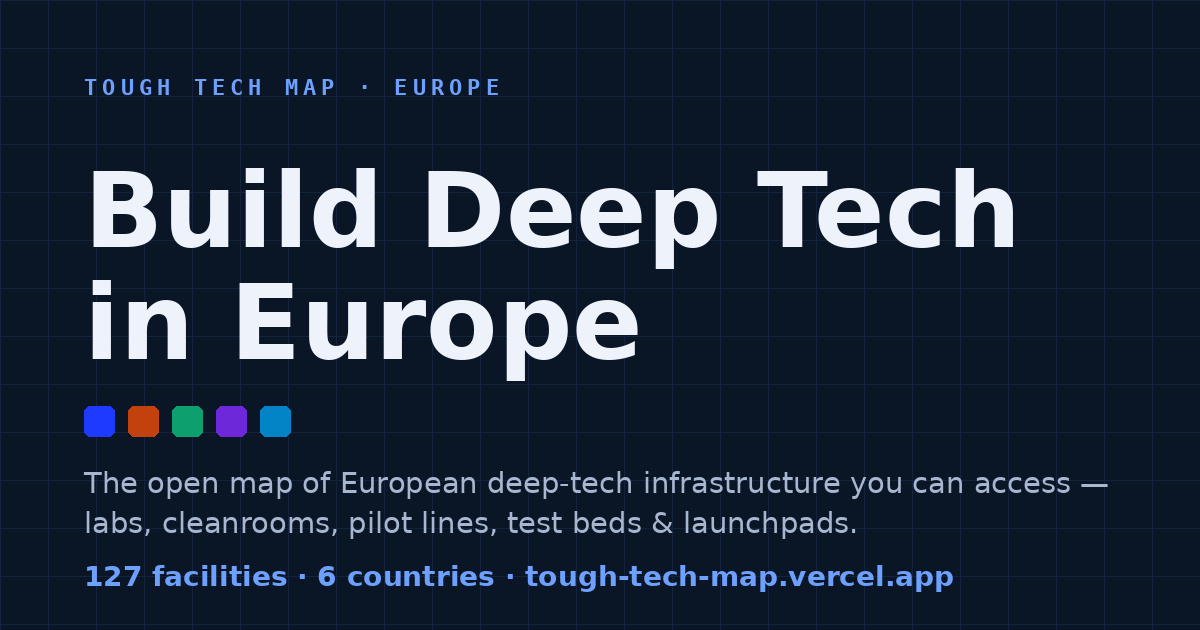
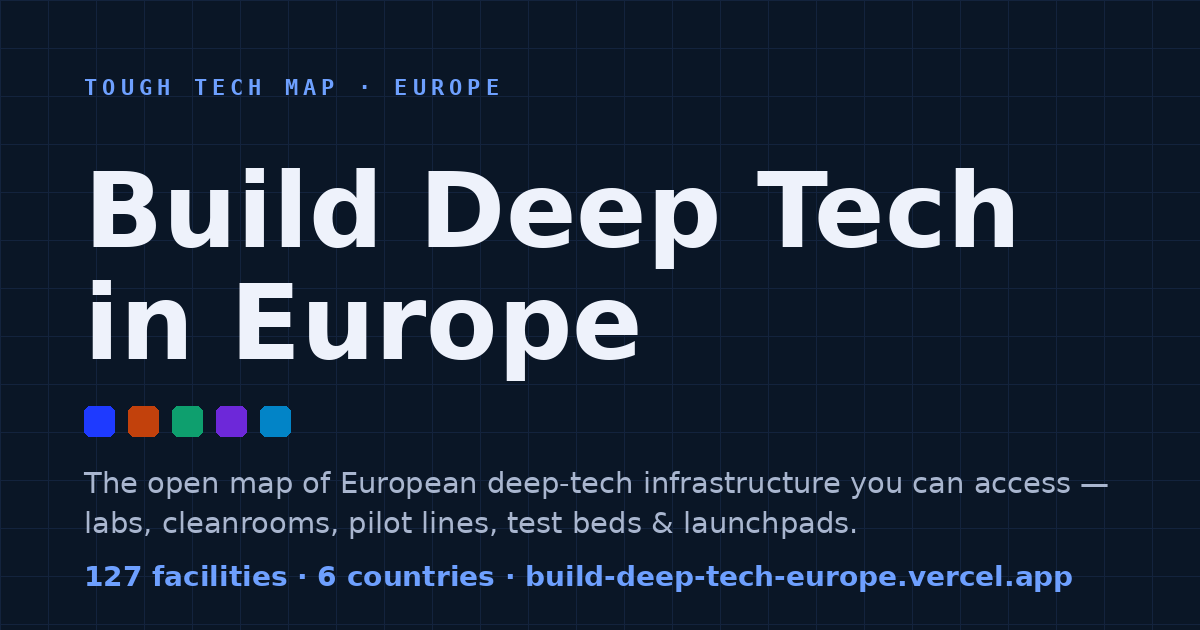
Mobile-responsive layout; remove Live/Demo badge; switch URLs to build-deep-tech-europe.vercel.app

Changed region(s): [[0.4317, 0.9048, 0.8942, 0.9349]]

diff --git a/src/index.css b/src/index.css
@@ -1014,34 +1014,62 @@ a {
   background: var(--t-pilot);
 }
 
-/* ---------- Mobile ---------- */
+/* ---------- Responsive / mobile ---------- */
 @media (max-width: 940px) {
   body {
     overflow: auto;
+    overflow-x: hidden;
   }
   .app {
     height: auto;
+    min-height: 100%;
   }
   .masthead {
     padding: 12px 14px;
+    gap: 10px;
   }
   .mast-top {
     flex-wrap: wrap;
-    gap: 10px;
+    align-items: center;
+    gap: 8px 14px;
+  }
+  .brand h1 {
+    white-space: normal;
+    font-size: 22px;
+    line-height: 1.12;
   }
   .mast-right {
     width: 100%;
     margin-left: 0;
     flex-wrap: wrap;
+    gap: 8px;
+  }
+  .btn-add {
+    flex: 1;
+    text-align: center;
+  }
+  .mast-tools {
+    flex-wrap: wrap;
+    gap: 8px;
+  }
+  .search {
+    flex: 1 1 100%;
+    max-width: none;
+    order: -1;
+  }
+  .btn-filters {
+    flex: 1;
+    justify-content: center;
   }
   .counters {
-    flex: 1;
+    margin-left: 0;
+    flex: 1 1 100%;
+    gap: 6px;
   }
   .counter {
     flex: 1;
-  }
-  .search {
-    max-width: none;
+    min-width: 0;
+    text-align: center;
   }
   .shell {
     display: flex;
@@ -1049,14 +1077,50 @@ a {
   }
   .map-wrap {
     order: -1;
-    height: 58vh;
+    height: 56vh;
+    min-height: 320px;
   }
   .cards {
     border-right: none;
     border-top: 1px solid var(--line-blue);
+    overflow: visible;
+    padding: 12px 12px 36px;
   }
   .filter-panel.open {
-    max-height: 70vh;
+    max-height: 76vh;
+  }
+  .data-note {
+    display: none;
+  }
+}
+
+@media (max-width: 520px) {
+  .brand h1 {
+    font-size: 19px;
+  }
+  .brand .tag {
+    font-size: 11.5px;
+  }
+  .map-wrap {
+    height: 50vh;
+    min-height: 280px;
+  }
+  .legend {
+    left: 10px;
+    bottom: 10px;
+    padding: 8px 10px;
+  }
+  .legend li {
+    font-size: 11px;
+  }
+  .drawer {
+    width: 100vw;
+  }
+  .modal {
+    width: 96vw;
+  }
+  .frow {
+    grid-template-columns: 1fr;
   }
 }
 

diff --git a/src/components/Masthead.tsx b/src/components/Masthead.tsx
@@ -44,16 +44,6 @@ export default function Masthead({
           </span>
         </div>
         <div className="mast-right">
-          <span
-            className={`source-pill ${demoMode ? "" : "live"}`}
-            title={
-              demoMode
-                ? "Running on the bundled seed (no Supabase keys set)"
-                : "Reading approved facilities from Supabase"
-            }
-          >
-            {demoMode ? "Demo data" : "Live · Supabase"}
-          </span>
           <button className="btn-add" onClick={onAdd}>
             + Add a facility
           </button>

diff --git a/index.html b/index.html
@@ -9,12 +9,12 @@
     <meta property="og:title" content="Build Deep Tech in Europe" />
     <meta property="og:description" content="The open map of European deep-tech infrastructure you can actually access: labs, cleanrooms, pilot lines, test beds and launchpads." />
     <meta property="og:type" content="website" />
-    <meta property="og:url" content="https://tough-tech-map.vercel.app/" />
+    <meta property="og:url" content="https://build-deep-tech-europe.vercel.app/" />
     <meta name="twitter:card" content="summary_large_image" />
-    <meta property="og:image" content="https://tough-tech-map.vercel.app/og.png" />
+    <meta property="og:image" content="https://build-deep-tech-europe.vercel.app/og.png" />
     <meta property="og:image:width" content="1200" />
     <meta property="og:image:height" content="630" />
-    <meta name="twitter:image" content="https://tough-tech-map.vercel.app/og.png" />
+    <meta name="twitter:image" content="https://build-deep-tech-europe.vercel.app/og.png" />
     <title>Build Deep Tech in Europe — Map of Labs, Cleanrooms &amp; Pilot Lines</title>
     <script type="application/ld+json">
       {
@@ -22,7 +22,7 @@
         "@type": "WebSite",
         "name": "Build Deep Tech in Europe",
         "alternateName": "Tough Tech Map · Europe",
-        "url": "https://tough-tech-map.vercel.app/",
+        "url": "https://build-deep-tech-europe.vercel.app/",
         "description": "The open map of European deep-tech infrastructure — labs, cleanrooms, pilot lines, test beds and launchpads that startups and external teams can access."
       }
     </script>